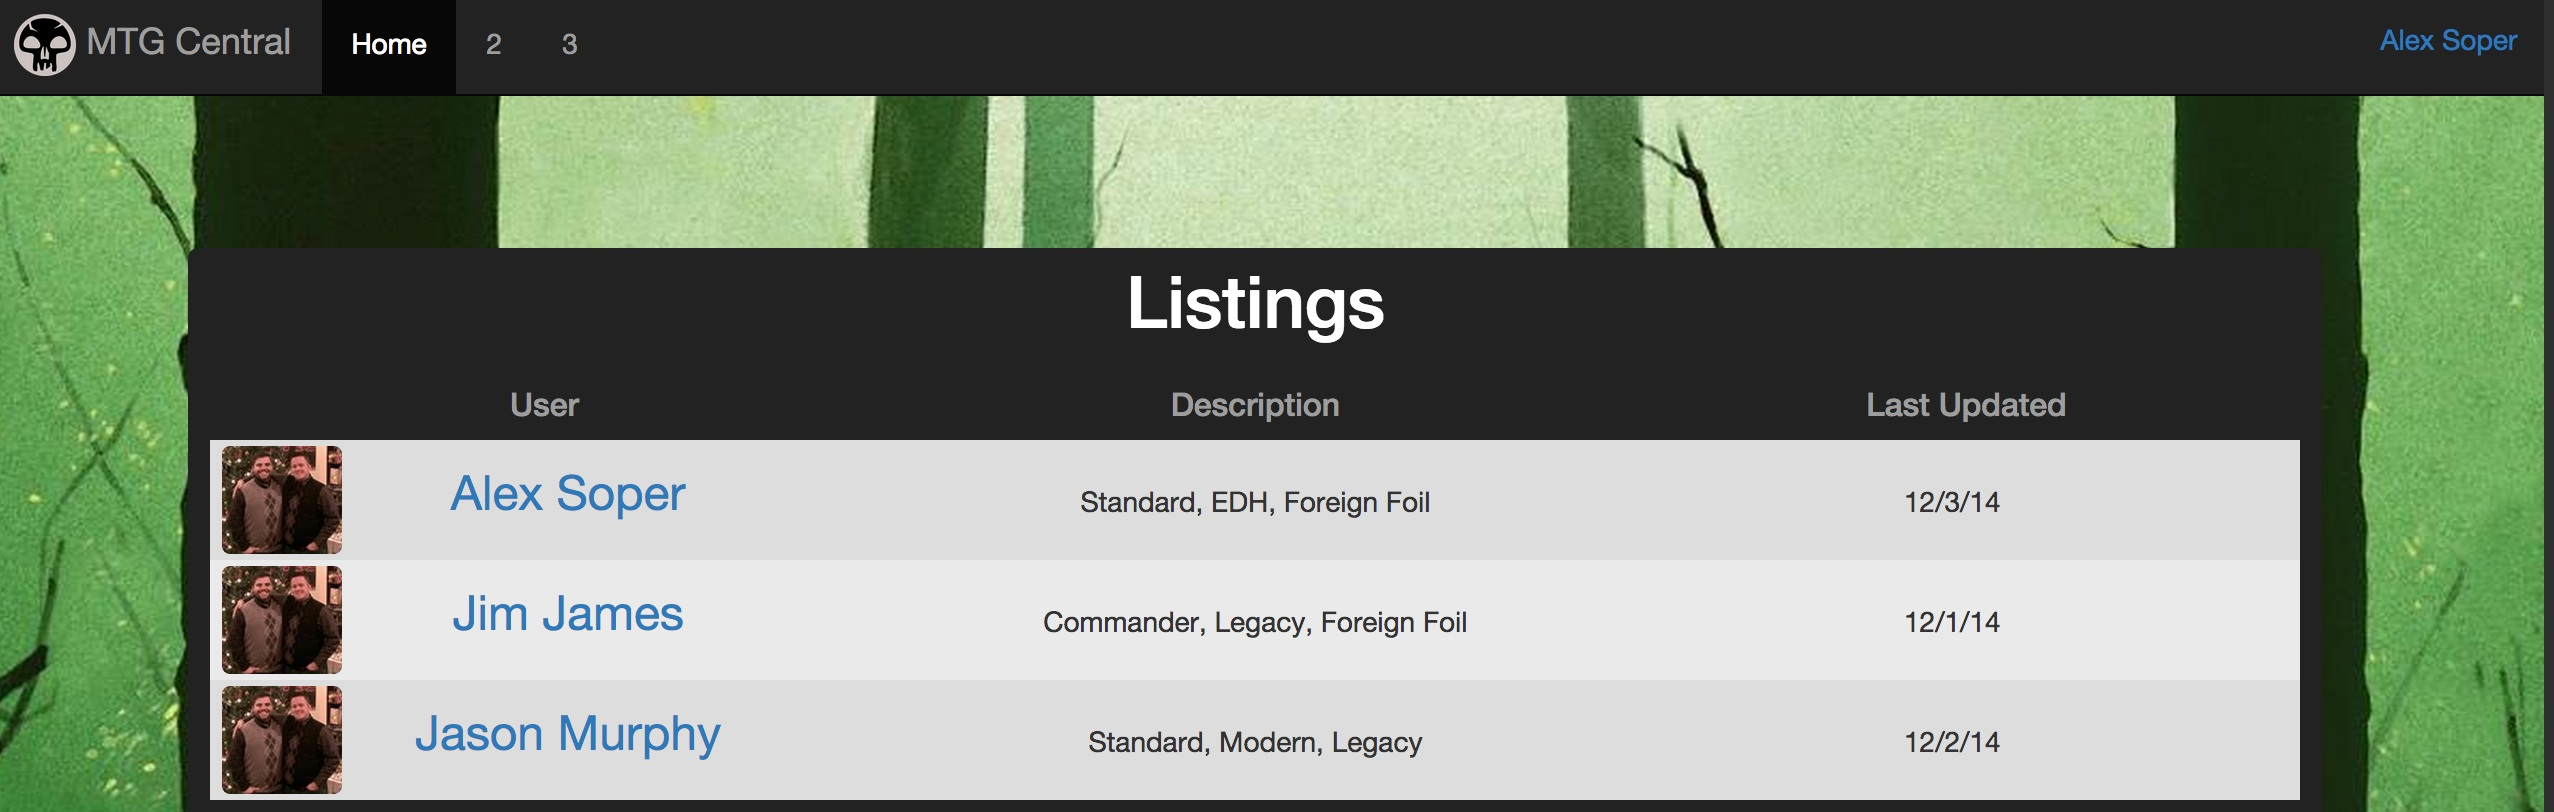
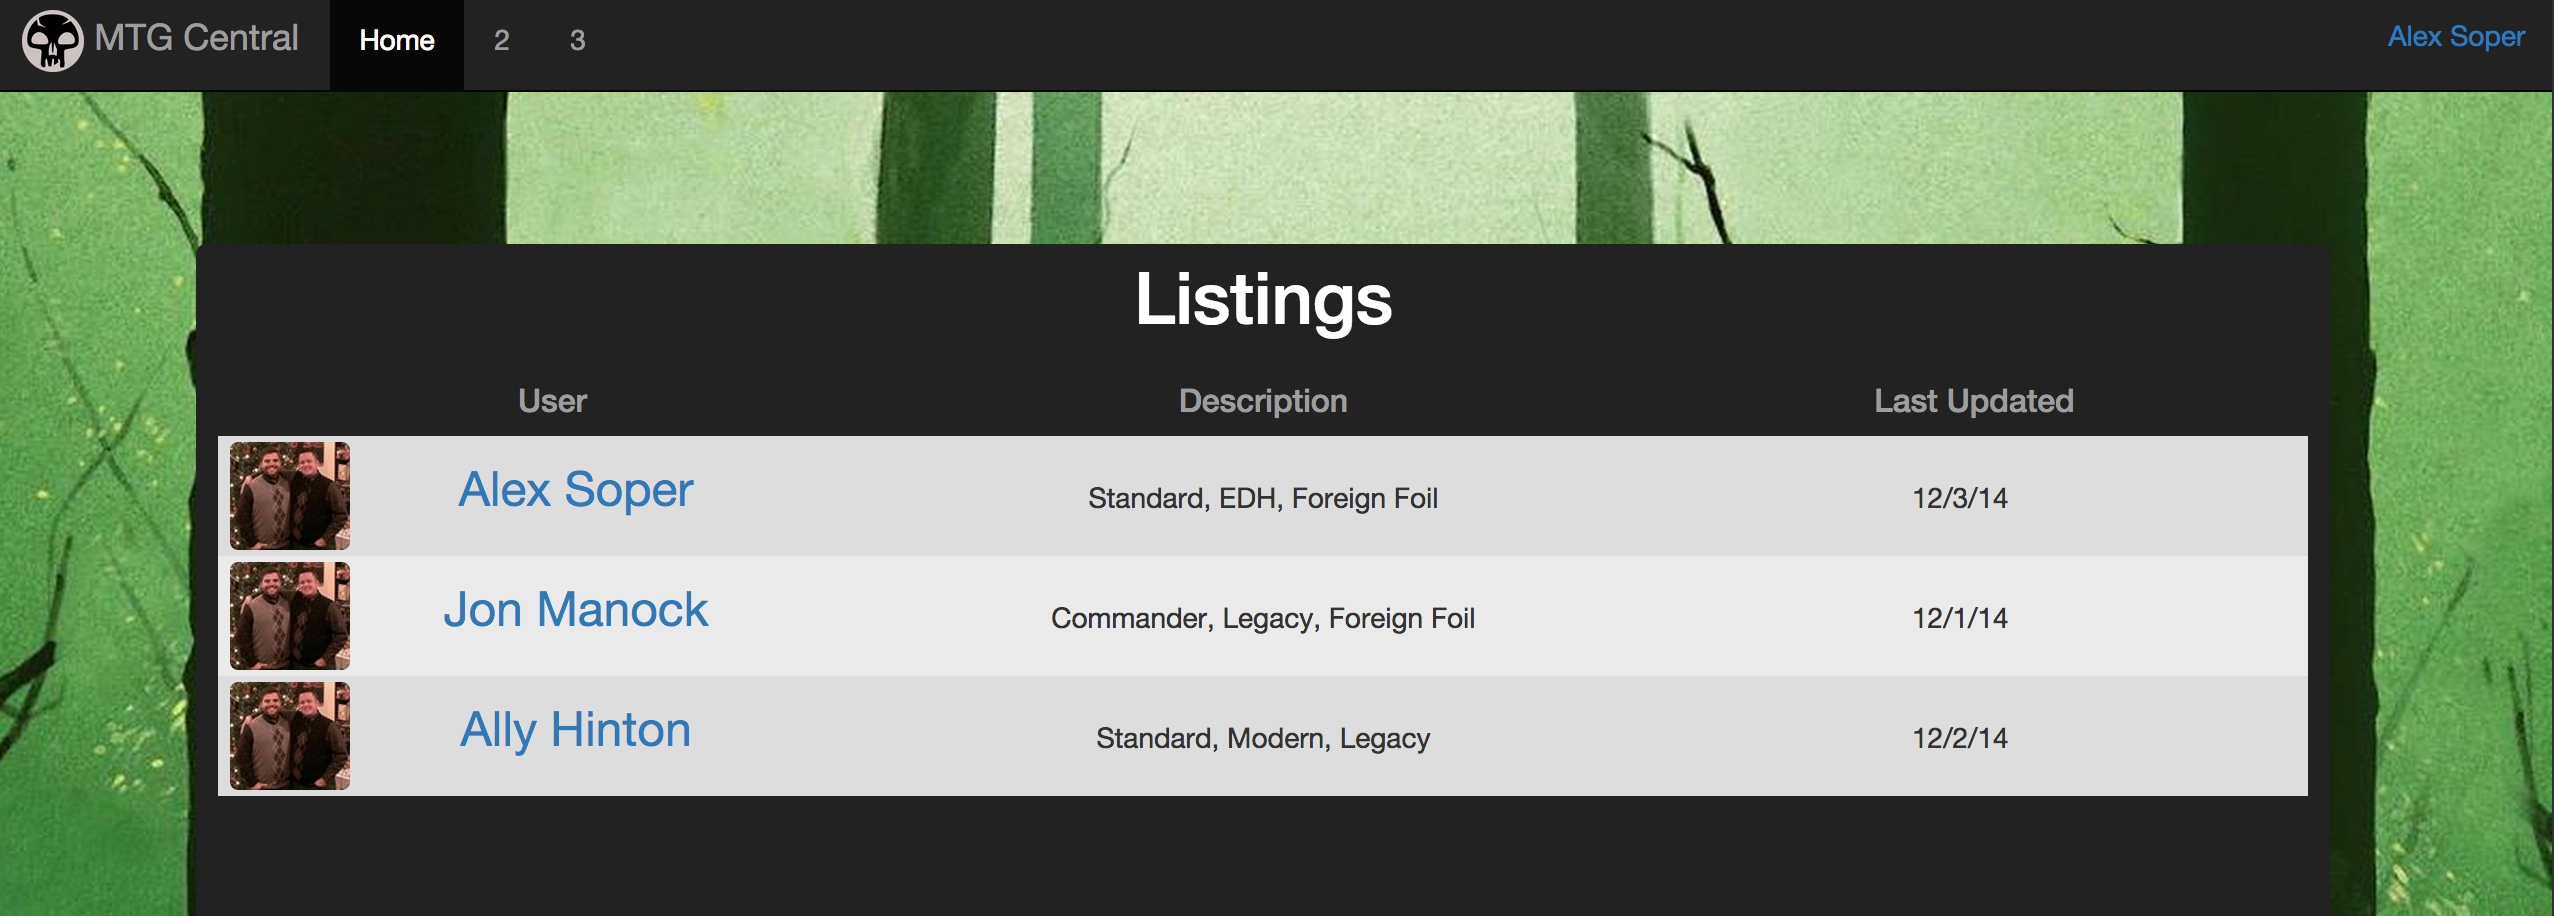
Started framing product pages

diff --git a/src/app/main/main.html b/src/app/main/main.html
@@ -1,4 +1,4 @@
-<header style="text-align: center; background-color: black;">
+<header style="text-align: left; background-color: black;">
 
   <br>
 
@@ -14,52 +14,69 @@
 
   <a class="mana" href="/index.html#/list"><img src="app/main/icons_title/mtg_green_mana_dk.png" height="105" width="105"  onmouseover="this.src='app/main/icons_title/mtg_green_mana_Lt.png'" onmouseout="this.src='app/main/icons_title/mtg_green_mana_dk.png'" /></a>
 
+  <div ng-hide="app.user">
+    <button class="btn btn-lg btn-primary" ng-click="app.login()">Login</button>
+  </div>
+
+  <div ng-show="app.user">
+    <button class="btn btn-danger" ng-click="app.logout()">Logout</button>
+  </div>
+
 </header>
 
 <main class="cd-main-content">
   <div class="cd-fixed-bg cd-bg-1">
-    <div ng-hide="app.user">
-      <h1>Please login to continue...</h1>
-      <button class="btn btn-lg btn-primary" ng-click="app.login()">Login with Facebook</button>
-    </div>
-
-    <div ng-show="app.user">
-      <h1>Hello, {{app.user.facebook.displayName}} </h1>
-
-      <button class="btn btn-danger" ng-click="app.logout()">Logout</button>
-    </div>
+    <section>
+      <h1>The future of local Magic The Gathering trading</h1>
+      <p>Connect with local players, organize your trade lists, and find the cards you need more efficiently with MTGC</p>
+      <button class="btn btn-lg btn-primary">LEARN MORE</button>
+    </section>
   </div>
 
 
   <div class="cd-scrolling-bg cd-color-2">
     <div class="cd-container">
-
-      <p>
-        "Now accepting donations of ammunition. Pots, pans, broken yard tools, naughty children, anything will do!" --Orcish Council of War
-      </p>
-
+    <img src="https://avatars0.githubusercontent.com/u/1530011?v=3&s=400">
+    <img src="https://pbs.twimg.com/profile_images/2149314222/square.png">
+    <img src="http://sass-lang.com/assets/img/logos/logo-235e394c.png">
+    <img src="http://2013.pnwdrupalsummit.org/sites/default/files/styles/session-node-image/public/sessions/bourbon-logo-2.png?itok=K_01qRV4">
+    <img src="http://tech.co/wp-content/uploads/2013/02/Firebase.png">
+    <img src="http://static.guim.co.uk/sys-images/Guardian/Pix/pictures/2013/1/11/1357921737290/Masterclass-in-HTML5-and--006.jpg">
+    <img src="http://www.syntaxxx.com/wp-content/uploads/2014/02/twitter-bootstrap.jpg">
     </div>
   </div>
 
   <div class="cd-fixed-bg cd-bg-2">
-    <h2>Buy Cards From Others</h2>
+    <h2>Create Your Profile</h2>
+    <p></p>
+    <img id="profile-img" src="app/main/images/profile.png">
   </div>
 
   <div class="cd-scrolling-bg cd-color-3">
     <div class="cd-container">
+      <h2>Search For Cards</h2>
+      <p></p>
+      <img id="search-img" src="app/main/images/search.png">
     </div>
   </div>
 
   <div class="cd-fixed-bg cd-bg-3">
-    <h2>Sell Your Items</h2>
+    <h2>View Others' Profiles</h2>
+    <p></p>
+    <img id="listings-img" src="app/main/images/listings.jpg">
   </div>
 
   <div class="cd-scrolling-bg cd-color-1">
     <div class="cd-container">
+      <h2>Buy Cards From Others</h2>
+      <p></p>
+      <img src="">
     </div>
   </div>
 
   <div class="cd-fixed-bg cd-bg-4">
-    <h2>Trade Your Items</h2>
+    <h2>Buy Cards From Others</h2>
+    <p></p>
+    <img src="">
   </div>
 </main>

diff --git a/src/app/listings/listings.js b/src/app/listings/listings.js
@@ -2,28 +2,13 @@
 
 angular.module('mtgCentral')
 
+
+
   .controller('ListCtrl', function (){
       this.listings = [
         { 'id' : '1', 'description' : 'Standard, EDH, Foreign Foil', 'author' : 'Alex Soper', 'updated' : '12/3/14'},
-        { 'id' : '2', 'description' : 'Commander, Legacy, Foreign Foil', 'author' : 'Jim James', 'updated' : '12/1/14'},
-        { 'id' : '3', 'description' : 'Standard, Modern, Legacy', 'author' : 'Jason Murphy', 'updated' : '12/2/14'}
-        // { 'id' : '4', 'title' : 'Random generic have // wants', 'author' : 'Some Guy'},
-        // { 'id' : '5', 'title' : 'Random generic have // wants', 'author' : 'Some Guy'},
-        // { 'id' : '6', 'title' : 'Random generic have // wants', 'author' : 'Some Guy'},
-        // { 'id' : '7', 'title' : 'Random generic have // wants', 'author' : 'Some Guy'},
-        // { 'id' : '8', 'title' : 'Random generic have // wants', 'author' : 'Some Guy'},
-        // { 'id' : '9', 'title' : 'Random generic have // wants', 'author' : 'Some Guy'},
-        // { 'id' : '10', 'title' : 'Random generic have // wants', 'author' : 'Some Guy'},
-        // { 'id' : '11', 'title' : 'Random generic have // wants', 'author' : 'Some Guy'},
-        // { 'id' : '12', 'title' : 'Random generic have // wants', 'author' : 'Some Guy'},
-        // { 'id' : '13', 'title' : 'Random generic have // wants', 'author' : 'Some Guy'},
-        // { 'id' : '14', 'title' : 'Random generic have // wants', 'author' : 'Some Guy'},
-        // { 'id' : '15', 'title' : 'Random generic have // wants', 'author' : 'Some Guy'},
-        // { 'id' : '16', 'title' : 'Random generic have // wants', 'author' : 'Some Guy'},
-        // { 'id' : '17', 'title' : 'Random generic have // wants', 'author' : 'Some Guy'},
-        // { 'id' : '18', 'title' : 'Random generic have // wants', 'author' : 'Some Guy'},
-        // { 'id' : '19', 'title' : 'Random generic have // wants', 'author' : 'Some Guy'},
-        // { 'id' : '20', 'title' : 'Random generic have // wants', 'author' : 'Some Guy'}
+        { 'id' : '2', 'description' : 'Commander, Legacy, Foreign Foil', 'author' : 'Jon Manock', 'updated' : '12/1/14'},
+        { 'id' : '3', 'description' : 'Standard, Modern, Legacy', 'author' : 'Ally Hinton', 'updated' : '12/2/14'}
       ];
 
       // var ref = new Firebase("https://mtg-central.firebaseio.com/");

diff --git a/src/app/main/mainMTG.css b/src/app/main/mainMTG.css
@@ -22,6 +22,56 @@ body, html {
   height: 100%;
 }
 
+#title > img {
+  margin: 0 3% 0 8%;
+}
+
+#listings-img {
+  position: absolute;
+  width: 65%;
+  top: 55%;
+  left: 17%;
+}
+
+#search-img {
+  height: 50%;
+  position: absolute;
+  left: 35%;
+}
+
+#profile-img {
+  position: absolute;
+  width: 45%;
+  left: 3%;
+}
+
+.cd-container > img {
+  height: 100px;
+  width: auto;
+  margin: 5%;
+}
+
+.cd-main-content > div > section > p {
+  width: 59%;
+  position: absolute;
+  left: 19%;
+  top: 40%;
+  color: #fff;
+  font-size: 22px;
+  text-align: center;
+}
+
+.cd-main-content > div > section > button {
+  position: absolute;
+  top: 55%;
+  left: 43%;
+}
+
+header > div {
+  display: inline;
+  margin-left: 7%;
+}
+
 a {
   color: #000000;
   text-decoration: none; }
@@ -34,22 +84,7 @@ body {
   font-family: 'Cinzel', serif; }
 
 body header {
-  padding-top: 17px;
-  padding-bottom: 20px;
   padding-top: 15px; }
-
-body header a img {
-  margin-top: -18px; }
-
-body > div > header > a:nth-child(5) {
-  padding-left: 65px;
-  padding-right: 60px;
-  padding-bottom: 15px; }
-
-body > div > header > a:nth-child(3) {
-  padding-left: 75px;
-  padding-right: 70px;
-  padding-bottom: 15px; }
 
 body > div > main > div.cd-scrolling-bg.cd-color-2 > div > p {
   color: white;
@@ -92,10 +127,10 @@ body > div > main > div.cd-fixed-bg.cd-bg-4 > h2 {
   background-repeat: no-repeat;
  /* background-position: center center;*/
   z-index: 1; }
-  .cd-fixed-bg h1, .cd-fixed-bg h2 {
+  .cd-fixed-bg h1, .cd-fixed-bg h2, .cd-container > h2 {
     position: absolute;
     left: 50%;
-    top: 50%;
+    top: 10%;
     bottom: auto;
     right: auto;
     -webkit-transform: translateX(-50%) translateY(-50%);
@@ -106,8 +141,7 @@ body > div > main > div.cd-fixed-bg.cd-bg-4 > h2 {
     width: 90%;
     max-width: 1170px;
     text-align: center;
-    font-size: 30px;
-    font-size: 1.875rem;
+    font-size: 70px;
     text-shadow: 0 1px 3px rgba(0, 0, 0, 0.3);
     color: white; }
   .cd-fixed-bg.cd-bg-1 {
@@ -125,7 +159,7 @@ body > div > main > div.cd-fixed-bg.cd-bg-4 > h2 {
     .cd-fixed-bg {
       background-attachment: fixed; }
       .cd-fixed-bg h1, .cd-fixed-bg h2 {
-        font-size: 48px;
+        font-size: 38px;
         font-weight: 300; } }
   .cd-scrolling-bg {
     position: relative;

diff --git a/gulp/server.js b/gulp/server.js
@@ -39,6 +39,7 @@ gulp.task('serve', ['watch'], function () {
     'src/assets/images/**/*',
     'src/*.html',
     'src/{app,components}/**/*.html',
+    'src/{app,components}/**/*.css',
     'src/{app,components}/**/*.js'
   ]);
 });
